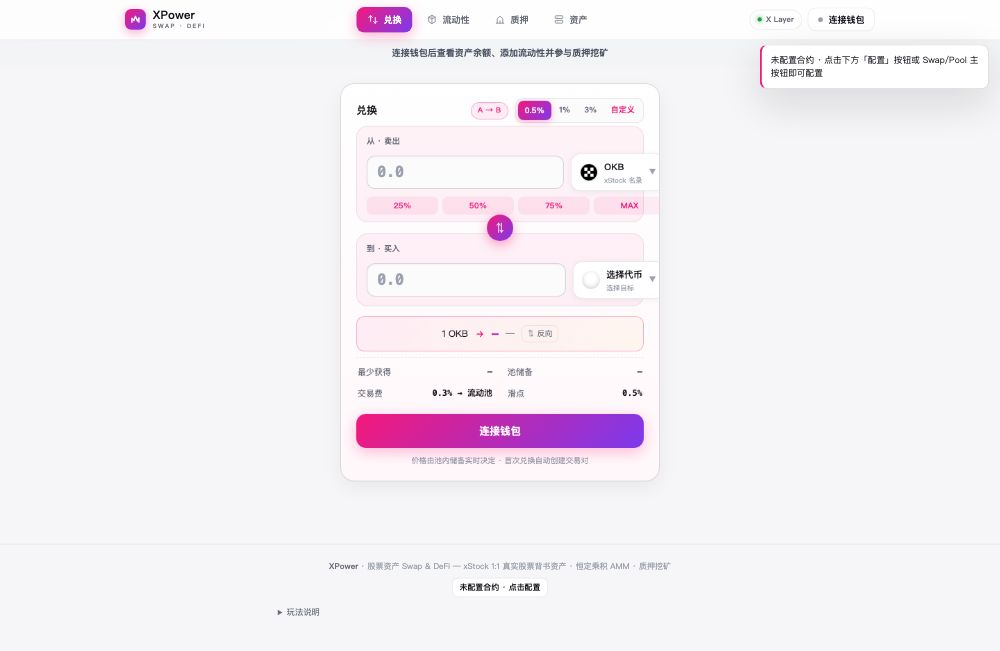
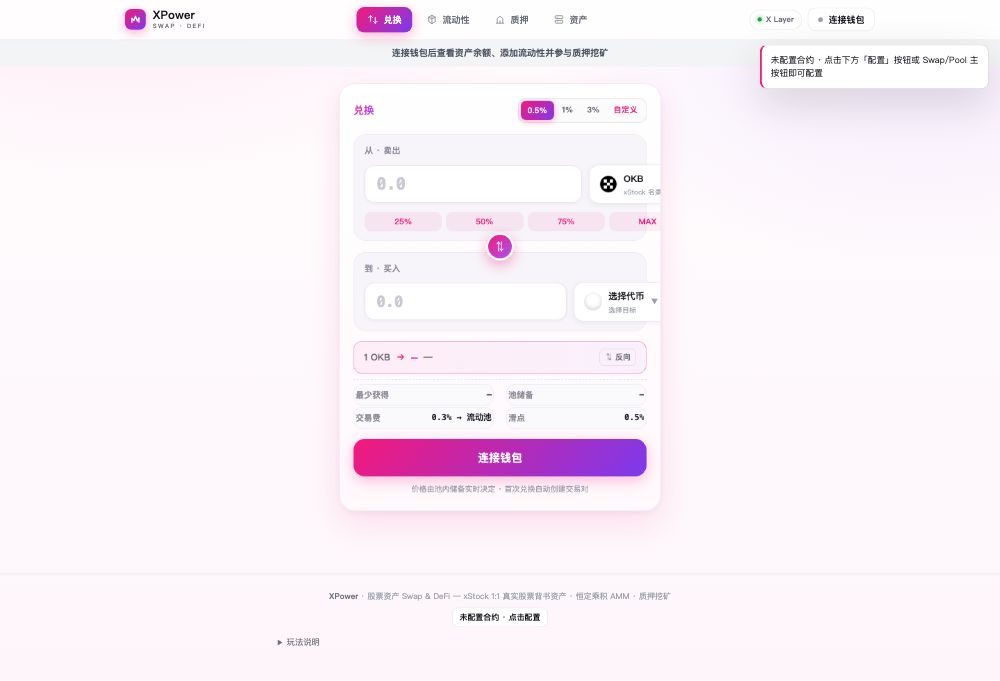
兑换页专业视觉v4：氛围渐变背景/浮起卡片/独立输入区/渐变标题/信息小卡

diff --git a/XPower Swap DApp.html b/XPower Swap DApp.html
@@ -278,32 +278,39 @@ input[type=text]:focus,input[type=number]:focus,select:focus,textarea:focus{outl
 .seg div{padding:4px 9px;border-radius:8px;font-size:11.5px;font-weight:800;color:var(--dim);cursor:pointer;transition:.15s}
 .seg div:hover{color:var(--acc)}
 .seg div.on{background:var(--acc-grad);color:#fff;box-shadow:0 3px 10px rgba(245,25,123,.3)}
-/* ===== 兑换页专业视觉 v3 ===== */
-.swap-card{overflow:hidden;border:1px solid var(--line2);border-radius:20px;background:linear-gradient(180deg,#fff 0%,#fff8fb 100%);box-shadow:var(--shadow)}
-.amt-in{background:rgba(245,25,123,.05);border:1px solid var(--line);border-radius:16px;padding:12px 14px 10px;display:grid;gap:8px;transition:border-color .18s,box-shadow .18s}
-.amt-in:focus-within{border-color:var(--acc-line);box-shadow:0 0 0 3px rgba(245,25,123,.09)}
-.amt-head{display:flex;justify-content:space-between;align-items:center;font-size:11.5px;color:var(--dim);font-weight:700}
-.amt-head .bal{color:var(--faint);font-weight:600;font-size:11px}
+/* ===== 兑换页专业视觉 v4 ===== */
+body{background:radial-gradient(1100px 560px at 12% -8%,rgba(245,25,123,.09),transparent 62%),radial-gradient(900px 520px at 92% 6%,rgba(168,85,247,.10),transparent 62%),linear-gradient(180deg,#fffdfe 0%,#fdf5fa 100%)!important}
+.swap-center{max-width:464px;margin:0 auto;width:100%}
+.swap-card{overflow:hidden;border:1px solid #f2e7ef;border-radius:24px;background:linear-gradient(180deg,#ffffff 0%,#fff7fc 130%);box-shadow:0 16px 46px rgba(245,25,123,.12),0 3px 12px rgba(20,20,43,.05);padding:20px 20px 22px}
+.swap-head{display:flex;justify-content:space-between;align-items:center;margin-bottom:16px;gap:8px}
+.swap-head b{font-size:22px;font-weight:900;letter-spacing:-.3px;background:linear-gradient(90deg,#f5197b,#a855f7);-webkit-background-clip:text;background-clip:text;color:transparent}
+.amt-in{background:#f7f5f9;border:1px solid #efe9f1;border-radius:18px;padding:13px 15px;display:grid;gap:10px;transition:border-color .18s,box-shadow .18s}
+.amt-in:focus-within{border-color:#f6a9d2;box-shadow:0 0 0 4px rgba(245,25,123,.10)}
+.amt-head{display:flex;justify-content:space-between;align-items:center;font-size:12px;color:#8f8b9b;font-weight:700;letter-spacing:.3px}
+.amt-head .bal{color:#a9a5b4;font-weight:600;font-size:11px}
 .amt-body{display:flex;align-items:center;gap:10px}
-.amt-body input{flex:1 1 auto;min-width:0;width:auto;max-width:none;background:var(--card2);border:1.5px solid var(--line2)!important;border-radius:12px;font-size:22px!important;font-weight:900;font-family:var(--mono);outline:none;color:var(--fg);letter-spacing:-.5px;padding:10px 14px;height:48px;box-sizing:border-box;transition:border-color .15s,box-shadow .15s;box-shadow:inset 0 1px 3px rgba(20,20,43,.05)}
-.amt-body input:focus{border-color:var(--acc-line)!important;box-shadow:0 0 0 3px rgba(245,25,123,.1)}
-.amt-body input::placeholder{color:var(--faint)}
-.amt-body .tokbtn{flex-shrink:0;width:auto;max-width:none;flex-basis:auto;border:1px solid var(--line);background:var(--card);border-radius:14px;padding:7px 12px;box-shadow:0 2px 8px rgba(20,20,43,.06);min-width:118px}
-.amt-body .tokbtn:hover{border-color:var(--acc-line)}
+.amt-body input{flex:1 1 auto;min-width:0;width:auto;max-width:none;background:#fff;border:1px solid #ece6ee!important;border-radius:14px;font-size:24px!important;font-weight:900;font-family:var(--mono);outline:none;color:#1a1726;letter-spacing:-.5px;padding:11px 16px;height:54px;box-sizing:border-box;transition:border-color .15s,box-shadow .15s;box-shadow:0 1px 4px rgba(20,20,43,.05)}
+.amt-body input:focus{border-color:#f6a9d2!important;box-shadow:0 0 0 3px rgba(245,25,123,.12)}
+.amt-body input::placeholder{color:#cbc7d4;font-weight:700}
+.amt-body .tokbtn{flex-shrink:0;width:auto;max-width:none;flex-basis:auto;background:#fff;border:1px solid #ece6ee;border-radius:14px;padding:8px 14px;box-shadow:0 2px 8px rgba(20,20,43,.06);min-width:122px}
+.amt-body .tokbtn:hover{border-color:#f6a9d2}
 .amt-body .tokbtn .lg{width:26px;height:26px;font-size:11px}
 .amt-body .tokbtn .nm2{font-size:13px;font-weight:800}
 .amt-body .tokbtn .sub2{font-size:10px}
-.pct-row{display:flex;gap:6px}
-.pct-row button{flex:1;padding:5px 0;border-radius:8px;border:none;background:rgba(245,25,123,.08);color:var(--acc);font-size:11.5px;font-weight:800;cursor:pointer;transition:.15s}
-.pct-row button:hover{background:var(--acc-grad);color:#fff;box-shadow:0 3px 10px rgba(245,25,123,.3)}
-.arrow-mid{display:flex;justify-content:center;margin:-11px 0;position:relative;z-index:2}
-.arrow-mid button{width:38px;height:38px;border-radius:50%;border:none;background:var(--acc-grad);color:#fff;font-size:16px;cursor:pointer;box-shadow:0 5px 16px rgba(245,25,123,.4);display:flex;align-items:center;justify-content:center;transition:transform .3s cubic-bezier(.2,.8,.3,1)}
+.pct-row{display:flex;gap:6px;margin-top:2px}
+.pct-row button{flex:1;padding:6px 0;border-radius:10px;border:none;background:rgba(245,25,123,.07);color:var(--acc);font-size:11.5px;font-weight:800;cursor:pointer;transition:.15s}
+.pct-row button:hover{background:linear-gradient(90deg,#f5197b,#a855f7);color:#fff;box-shadow:0 3px 10px rgba(245,25,123,.3)}
+.arrow-mid{display:flex;justify-content:center;margin:-12px 0;position:relative;z-index:2}
+.arrow-mid button{width:40px;height:40px;border-radius:50%;border:3px solid #fff;background:linear-gradient(135deg,#f5197b,#a855f7);color:#fff;font-size:16px;cursor:pointer;box-shadow:0 6px 18px rgba(245,25,123,.38);display:flex;align-items:center;justify-content:center;transition:transform .3s cubic-bezier(.2,.8,.3,1)}
 .arrow-mid button:hover{transform:scale(1.08)}
-.arrow-mid button.flip{transform:rotate(180deg)}
-.swap-cta{margin-top:14px;padding:14px!important;font-size:15px!important;font-weight:800;border-radius:14px!important;box-shadow:0 8px 22px rgba(245,25,123,.32);transition:.18s}
-.swap-cta:hover{transform:translateY(-1px);box-shadow:0 12px 28px rgba(245,25,123,.42)}
-#outAmt{color:var(--acc)!important}
-#outAmt.grad{background:var(--acc-grad);-webkit-background-clip:text;background-clip:text;color:transparent!important}
+.pricebar{display:flex;align-items:center;justify-content:center;gap:8px;margin:14px 0 4px;padding:10px 14px;background:linear-gradient(90deg,rgba(245,25,123,.06),rgba(168,85,247,.06));border-radius:12px;font-size:13px;font-weight:600;color:#6f6a7a}
+.pricebar b{font-size:16px;font-weight:900;font-family:var(--mono);background:linear-gradient(90deg,#f5197b,#a855f7);-webkit-background-clip:text;background-clip:text;color:transparent}
+.pflip{margin-left:auto;font-size:11.5px;font-weight:800;color:var(--acc);cursor:pointer}
+.info-grid{display:grid;grid-template-columns:1fr 1fr;gap:8px;margin-top:12px}
+.info-row{display:flex;justify-content:space-between;align-items:center;padding:9px 12px;background:#faf9fc;border:1px solid #f2ecf2;border-radius:12px;font-size:12px;color:#8f8b9b;font-weight:600}
+.info-row b{color:#1a1726;font-weight:800}
+.swap-cta{margin-top:14px;padding:16px!important;font-size:16px!important;font-weight:900;border-radius:16px!important;box-shadow:0 10px 26px rgba(245,25,123,.34);transition:.18s}
+.swap-cta:hover{transform:translateY(-1px);box-shadow:0 14px 32px rgba(245,25,123,.46);filter:brightness(1.05)}
 </style>
 </head>
 <body>
@@ -336,7 +343,7 @@ input[type=text]:focus,input[type=number]:focus,select:focus,textarea:focus{outl
         <div class="swap-head">
           <b>兑换</b>
           <div style="display:flex;align-items:center;gap:10px">
-            <span class="badge x" id="swapDir">A → B</span>
+            <span class="badge x" id="swapDir" style="display:none">A → B</span>
             <div class="seg" id="slipSeg"><div class="on" data-s="0.5">0.5%</div><div data-s="1">1%</div><div data-s="3">3%</div><div id="slipCus" style="color:var(--acc);cursor:pointer">自定义</div></div>
             <div id="slipCustom" style="display:none;align-items:center;gap:8px;margin-top:8px"><input id="slipInput" type="number" step="0.1" min="0.01" max="10" placeholder="0.01–10" style="flex:1;min-width:0;font-family:var(--mono)"><button class="btn sm" onclick="applySlip()">应用</button></div>
           </div>
